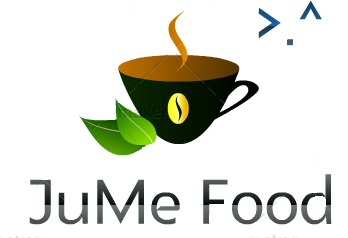
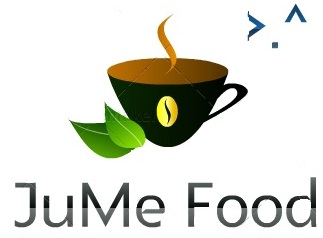
login view optimized

diff --git a/templates/login.html b/templates/login.html
@@ -1,10 +1,10 @@
 <div>
 	<ion-pane has-header="false" padding="true" style="text-align: center;">
-		<img src="images/JuMeFood.jpg" style="margin-top: 100px;">
+		<img src="images/JuMeFood.jpg" style="position:absolute; height:240px; top:50%; margin-top:-120px; left:50%; margin-left:-164px;width=328px">
 		<br/>
-		<button class="button button-block button-positive">Favorites</button>
 	</ion-pane>
+
 	<div class="bar bar-footer bar-positive" ng-click="login()">
-		<span class="title bloder" style="font-size: 20px;">Facebook</span>
+		<span class="title bloder" style="font-size: 20px;">Facebook Login</span>
 	</div>
 </div>
